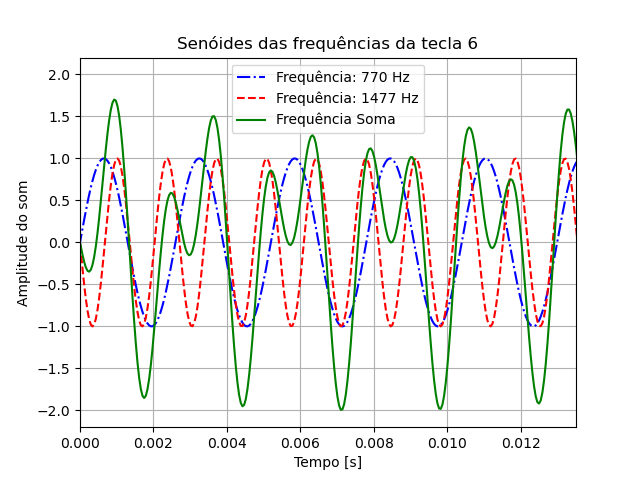
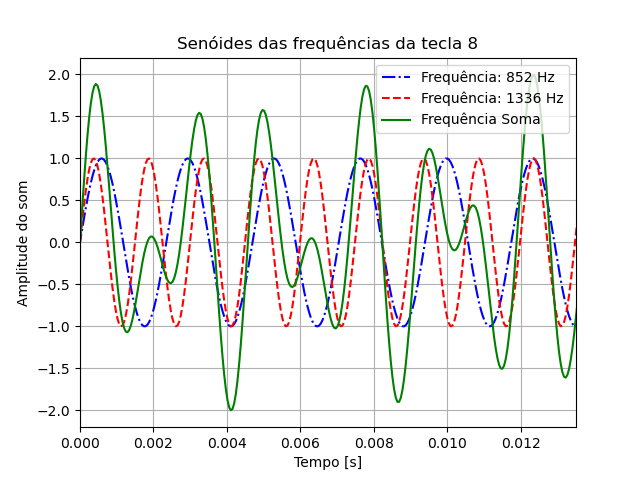
decode terminado

Changed region(s): [[0.125, 0.125, 0.9062, 0.875], [0.7188, 0.0625, 0.75, 0.0938]]

diff --git a/Projeto7/decode_versaoAlunos.py b/Projeto7/decode_versaoAlunos.py
@@ -1,7 +1,7 @@
 
 #Importe todas as bibliotecas
-from suaBibSignal import *
-import pickle    #alternativas  #from detect_peaks import *   #import pickle
+from suaBibSignal import signalMeu
+import peakutils    #alternativas  #from detect_peaks import *   #import pickle
 import numpy as np
 import sounddevice as sd
 import matplotlib.pyplot as plt
@@ -14,86 +14,87 @@ def todB(s):
     sdB = 10*np.log10(s)
     return(sdB)
 
+def getFrequencies(frequencia):
+    frequencias = [[697, 770, 852, 941], [1209, 1336, 1477, 1633]]
+    peakFreqC = 0
+    peakFreqL = 0
+    #linha
+    for linha in frequencias[0]:
+        if int(frequencia) in range(linha - 40, linha + 40):
+            peakFreqL = linha
+            return peakFreqL
+    
+    for coluna in frequencias[1]:
+        if int(frequencia) in range(linha - 40, linha + 40):
+            peakFreqC = coluna
+            return peakFreqC
+
+    
 def main():
     f1 = Figlet(font='slant')
     print(f1.renderText('Projeto 7 - receptor'))
-    #*****************************instruções********************************
- 
-    #declare um objeto da classe da sua biblioteca de apoio (cedida)   
-    # algo como:
+  
     print("\n[+]---Inicializando decoder\n\n")
     signal = signalMeu() 
-       
-    #voce importou a bilioteca sounddevice como, por exemplo, sd. entao
-    # os seguintes parametros devem ser setados:
-    sd.default.samplerate = 44100 #Hz, profundidade de 16 bits
-    sd.default.channels = 1 # o numero de canais, tipicamente são 2. Placas com dois canais. Se ocorrer problemas pode tentar com 1. No caso de 2 canais, ao gravar um audio, terá duas listas
-    duration =  2 # #tempo em segundos que ira aquisitar o sinal acustico captado pelo mic
+
+    duration =  1 #tempo em segundos que ira aquisitar o sinal acustico captado pelo mic
+    sd.default.channels = 1
+    sd.default.samplerate = 44100
+    numAmostras = 44100 * duration
     
-    #calcule o numero de amostras "numAmostras" que serao feitas (numero de aquisicoes) durante a gracação. Para esse cálculo você deverá utilizar a taxa de amostragem e o tempo de gravação
-    numAmostras = sd.default.samplerate * duration
-    #faca um print na tela dizendo que a captacao comecará em n segundos. e entao 
-    #use um time.sleep para a espera
     print("\n[+]---A captação do som começará em 5 segundos...")
     time.sleep(5)
    
-    #Ao seguir, faca um print informando que a gravacao foi inicializada
+
     print("\n[+]---Gravação inicializada!")
-    #para gravar, utilize
-    audio = sd.rec(int(numAmostras), sd.default.samplerate, channels=1)
-    sd.wait()
-    print("\n[+]---FIM")
 
-    #analise sua variavel "audio". pode ser um vetor com 1 ou 2 colunas, lista, isso dependerá so seu sistema, drivers etc...
-    #extraia a parte que interessa da gravação (as amostras) gravando em uma variável "dados". Isso porque a variável audio pode conter dois canais e outas informações). 
-    dadoslista = []
-    for amostras in audio:
-        dadoslista.append(amostras[0])
+    audio = sd.rec(int(numAmostras))
+    
+    print("\n[+]---Fim da gravação.")
 
-    dadosArray = np.array(dadoslista)
-    # # use a funcao linspace e crie o vetor tempo. Um instante correspondente a cada amostra!
-    tempo = np.linspace(-1 ,1,1*44100*2)
-    # # plot do gravico áudio gravado (dados) vs tempo! Não plote todos os pontos, pois verá apenas uma mancha (freq altas) . 
-    plt.plot(tempo, dadosArray, "r-", label=f"Áudio captado")
+    tempo = np.linspace(0,2,44100)
+
+    # # plot do gravico áudio gravado (dados) vs tempo!  
+    print("\n[+]---Plotando gráfico do áudio gravado.")
+    plt.figure("Senoide")
+    plt.plot(tempo[:400], audio[:400], "r-", label=f"Áudio captado")
     plt.grid(True)
     plt.title(f"Áudio gravado x Tempo")
-    plt.xlabel("Tempo [s]")
-    plt.ylabel("Amplitude do som")
-    plt.xlim(0, 0.001)
-    plt.ylim(-0.05, 0.05)
-    plt.legend()
-    plt.show()  
+    plt.autoscale(enable=True, axis="both", tight=True)
+    plt.show()
+    sd.wait()
+    
     # ## Calcula e exibe o Fourier do sinal audio. como saida tem-se a amplitude e as frequencias
-    # xf, yf = signal.calcFFT(y, fs)
-    # plt.figure("F(y)")
-    # plt.plot(xf,yf)
-    # plt.grid()
-    # plt.title('Fourier audio')
+    print("\n[+]---Realizando transformada de Fourier.")
+    xf, yf = signal.calcFFT(audio, 44100)
+    print("\n[+]---Plotando gráfico da transformada de Fourier.")
+    plt.figure("Fourier")
+    plt.plot(xf,yf)
+    plt.grid(True)
+    plt.title('Transformada de Fourier - Áudio gravado')
+    plt.autoscale(enable=True, axis="both", tight=True)
+    plt.show()
     
-    # #agora, voce tem os picos da transformada, que te informam quais sao as frequencias mais presentes no sinal. Alguns dos picos devem ser correspondentes às frequencias do DTMF!
-    # #Para descobrir a tecla pressionada, voce deve extrair os picos e compara-los à tabela DTMF
-    # #Provavelmente, se tudo deu certo, 2 picos serao PRÓXIMOS aos valores da tabela. Os demais serão picos de ruídos.
+    ## Adquirindo a tecla a partir do som obtido e da transformada de fourier
+    print("\n[+]---Identificando picos.")
+    index = peakutils.indexes(yf, thres=0.2, min_dist=10)
+    frqObtidaLista = [[], []]
+    for frequencia in xf[index]:
+        #Linha
+        if int(frequencia) in range(640, 990):
+            frqObtidaLista[0].append(getFrequencies(frequencia))
+        #Coluna
+        elif int(frequencia) in range(1160, 1680):
+            frqObtidaLista[1].append(getFrequencies(frequencia))
 
-    # # para extrair os picos, voce deve utilizar a funcao peakutils.indexes(,,)
-    # # Essa funcao possui como argumentos dois parâmetros importantes: "thres" e "min_dist".
-    # # "thres" determina a sensibilidade da funcao, ou seja, quao elevado tem que ser o valor do pico para de fato ser considerado um pico
-    # #"min_dist" é relatico tolerancia. Ele determina quao próximos 2 picos identificados podem estar, ou seja, se a funcao indentificar um pico na posicao 200, por exemplo, só identificara outro a partir do 200+min_dis. Isso evita que varios picos sejam identificados em torno do 200, uma vez que todos sejam provavelmente resultado de pequenas variações de uma unica frequencia a ser identificada.   
-    # # Comece com os valores:
-    # index = peakutils.indexes(yf, thres=0.4, min_dist=50)
-    # print("index de picos {}" .format(index)) #yf é o resultado da transformada de fourier
+    tabelaDTMF = {"1":[697, 1209], "2":[697, 1336], "3":[697, 1477], "A":[697, 1633], "4":[770, 1209], "5":[770, 1336], "6":[770, 1477], "B":[770, 1633], "7":[852, 1209], "8":[852, 1336], "9":[852, 1477], "C":[852, 1633], "X":[941, 1209], "0":[941, 1336], "#":[941, 1477], "D":[941, 1633]}
 
-    # #printe os picos encontrados! 
-    # # Aqui você deverá tomar o seguinte cuidado: A funcao  peakutils.indexes retorna as POSICOES dos picos. Não os valores das frequências onde ocorrem! Pense a respeito
+    character = "None"
+    for tecla, frequencias in tabelaDTMF.items():
+        if frqObtidaLista[0] == frequencias[0] and frqObtidaLista[1] == frequencias[1]:
+            character = tecla
     
-    # #encontre na tabela duas frequencias proximas às frequencias de pico encontradas e descubra qual foi a tecla
-    # #print o valor tecla!!!
-    # #Se acertou, parabens! Voce construiu um sistema DTMF
-
-    # #Você pode tentar também identificar a tecla de um telefone real! Basta gravar o som emitido pelo seu celular ao pressionar uma tecla. 
-
-      
-    # ## Exiba gráficos do fourier do som gravados 
-    # plt.show()
+    print(f"\n[+]---Tecla referente ao som gravado: {character}")
 
 if __name__ == "__main__":
     main()

diff --git a/Projeto7/encode_versaoAlunos.py b/Projeto7/encode_versaoAlunos.py
@@ -1,5 +1,5 @@
 
-#importe as bibliotecas
+#Importanto as bibliotecas necessárias
 from suaBibSignal import *
 import numpy as np
 import sounddevice as sd
@@ -7,12 +7,11 @@ import matplotlib.pyplot as plt
 import sys
 from pyfiglet import Figlet
 
-#funções a serem utilizadas
+#Funções a serem utilizadas
 def signal_handler(signal, frame):
         print('[!]---You pressed Ctrl+C!')
         sys.exit(0)
 
-#converte intensidade em Db, caso queiram ...
 def todB(s):
     sdB = 10*np.log10(s)
     return(sdB)
@@ -96,12 +95,12 @@ def main():
 
     #soma das senoides
     finalSin = y1 + y2
-    print(finalSin, type(finalSin))
     print("[+]---Gerando Tom referente ao símbolo : {}".format(tecla))
     #Playing
     sd.play(finalSin, fs)
 
     # # Exibe gráficos
+    plt.figure("Senoides")
     plt.plot(tempo, y1, "b-.", label=f"Frequência: {frequenciasTecla[0][0]} Hz", )
     plt.plot(tempo, y2, "r--", label=f"Frequência: {frequenciasTecla[1][0]} Hz")
     plt.plot(tempo, finalSin, "g-", label=f"Frequência Soma")

diff --git a/Projeto7/suaBibSignal.py b/Projeto7/suaBibSignal.py
@@ -15,7 +15,7 @@ class signalMeu:
         n = time*fs
         x = np.linspace(0.0, time, n)
         s = amplitude*np.sin(freq*x*2*np.pi)
-        return (x, s)
+        return x, s
 
     def calcFFT(self, signal, fs):
         # https://docs.scipy.org/doc/scipy/reference/tutorial/fftpack.html
